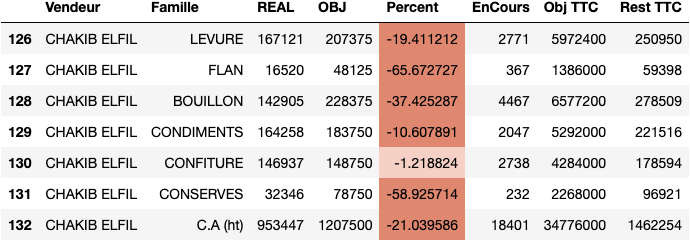
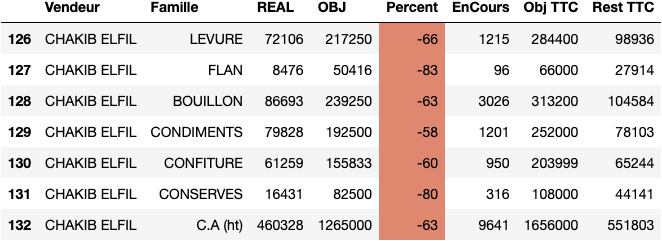
beta5

diff --git a/app.py b/app.py
@@ -5,6 +5,7 @@ import plotly.express as px
 from SheetFix import *
 from convert_df_image import *
 from vendeur_phones import *
+from operator import itemgetter
 
 
 st.set_page_config(page_title="Rapport FDV",
@@ -34,21 +35,43 @@ df = pd.read_excel(
     sheet_name=["AGADIR"],
 
 )
-
+som_check = True
+vmm_check = False
 df = df.get("AGADIR")
 list_vendeurs = []
+col1,col2=st.sidebar.columns(2)
+with col1:
+    som_vendeurs = st.checkbox("SOM Vendeurs", value=False)
+with col2:
+    vmm_vendeurs = st.checkbox("VMM Vendeurs", value=False)
+vmm_vendeurs_list=['K91 BAIZ MOHAMED','K81 AISSI SAMIR','035 AKANTOR REDOUAN','Y60 ATOUAOU AIMAD','F77 EL MEZRAOUI YOUSSEF','T45 FAICAL GOUIZID']    
+som_vendeurs_list=['K92 DARKAOUI MOHAMED','F78 GHOUSMI MOURAD','D86 ACHAOUI AZIZ','D45 OUARSSASSA YASSINE','Y59 EL GHANMI MOHAMED','T45 FAICAL GOUIZID']
 vendeurs = st.sidebar.multiselect(
     'Vendeurs', df["Vendeur"].unique(),
-    default="K92 DARKAOUI MOHAMED"
+    default=som_vendeurs_list if som_vendeurs else ( vmm_vendeurs_list if vmm_vendeurs else "K92 DARKAOUI MOHAMED")
 )
-famille = st.sidebar.multiselect(
-    "Famille:",
-    options=df["Famille"].unique(),
-    default=df["Famille"][6]
-)
+som_vmm=st.sidebar.selectbox("Choisir la famille",["SOM et VMM","SOM","VMM"])
 
-som_check = st.sidebar.checkbox("SOM", value=False)
-vmm_check = st.sidebar.checkbox("VMM", value=False)
+famille = "C.A (ht)"
+if som_vmm=="SOM":
+    famille = st.sidebar.multiselect(
+        "Famille:",
+        options=df["Famille"].unique(),
+        default=[df["Famille"][index] for index in [0, 1, 2, 6]]
+    )
+elif som_vmm=="VMM":
+    famille = st.sidebar.multiselect(
+        "Famille:",
+        options=df["Famille"].unique(),
+        default=df["Famille"][3:7]
+    )
+else :
+    famille = st.sidebar.multiselect(
+        "Famille:",
+        options=df["Famille"].unique(),
+        default=df["Famille"][0:7]
+    )    
+
 
 all_vendeur_option = st.sidebar.checkbox("All_Vendeur", value=False)
 df["Obj TTC"] = df.apply(lambda x: x["OBJ"] * 24*1.2/day_work, axis=1)
@@ -87,42 +110,12 @@ df = df.astype({
             "Percent": "int",
 
 })
-#df['Pourcent'] = df['Pourcent'].str.rstrip('%').astype('float') / 100.0
 
-# df=df.style.format({"Percent":"{:.0%}"})
-levure_ca = (
-    df_levure.groupby(by=["Famille"]).sum()[
-        ["REAL", "OBJ"]].sort_values(by="REAL")
-)
-flan_ca = (
-    df_flan.groupby(by=["Famille"]).sum()[
-        ["REAL", "OBJ"]].sort_values(by="REAL")
-)
-buillon_ca = (
-    df_bouillon.groupby(by=["Famille"]).sum()[
-        ["REAL", "OBJ"]].sort_values(by="REAL")
-)
-
-condiment_ca = (
-    df_condiment.groupby(by=["Famille"]).sum()[
-        ["REAL", "OBJ"]].sort_values(by="REAL")
-)
-confiture_ca = (
-    df_confiture.groupby(by=["Famille"]).sum()[
-        ["REAL", "OBJ"]].sort_values(by="REAL")
-)
-conserve_ca = (
-    df_conserve.groupby(by=["Famille"]).sum()[
-        ["REAL", "OBJ"]].sort_values(by="REAL")
-)
-
+st.dataframe(df)
 vendeur_ca = (
     df.groupby(by=["Vendeur"]).sum()[["REAL", "OBJ"]].sort_values(by="REAL")
 )
-
-
-st.dataframe(df)
-fig_produit_sales = px.bar(
+ca_vendeur = px.bar(
     vendeur_ca,
     x="REAL",
     y=vendeur_ca.index,
@@ -130,56 +123,95 @@ fig_produit_sales = px.bar(
     title=f'{famille[0]}',
     color_discrete_sequence=["#0083B8"] * len(vendeur_ca),
     template="plotly_white",
-    color='REAL'
+    color='REAL',
+    height=300,
+    width=500
+    
 
 )
 # circle=px.pie(df,names=list_vendeurs,values="REAL")
+
 ca_by_vendeur = px.bar(vendeur_ca, y=vendeurs, x=[
-    "REAL", "OBJ"], title="CA", barmode='group')
+    "REAL", "OBJ"], title="CA", barmode='group',height=300,
+    width=500)
 
+try:
+    col1,col2=st.columns(2)
+    with col1:
+        st.plotly_chart(ca_vendeur)
+    with col2:
+        
+        st.plotly_chart(ca_by_vendeur)
+    
 
-if som_check:
-    ca_by_levure = px.bar(levure_ca, y=vendeurs, x=[
-        "REAL", "OBJ"], title="LEVURE", barmode='group', width=400, height=250)
-    ca_by_flan = px.bar(flan_ca, y=vendeurs, x=[
-                        "REAL", "OBJ"], title="FLAN", barmode='group', width=400, height=250)
-    ca_by_buillon = px.bar(df_bouillon, y=vendeurs, x=[
-                           "REAL", "OBJ"], title="BUILLON", barmode='group', width=400, height=250)
-ca_by_condiment = px.bar(condiment_ca, y=vendeurs, x=[
-                         "REAL", "OBJ"], title="CONDIMENT", barmode='group', width=400, height=250)
-
-
-ca_by_confiture = px.bar(confiture_ca, y=vendeurs, x=[
-                         "REAL", "OBJ"], title="CONFITURE", barmode='group', width=400, height=250)
-ca_by_conserve = px.bar(conserve_ca, y=vendeurs, x=[
-                        "REAL", "OBJ"], title="CONSERVE", barmode='group', width=400, height=250)
-
-
-st.plotly_chart(fig_produit_sales)
+except Exception as e :
+    print("an error " +e)
 # st.plotly_chart(circle)
 df = df.style.applymap(lambda x: "background-color: #ed8269" if x < -10 else ("background-color: #FDCDC3" if x <
-
                        0 else ("background-color: white" if x == 0 else "background-color: #A1EB0E")), subset=["Percent"])
-if som_check:
-    col1, col2, col3 = st.columns(3)
-    with col1:
-        st.plotly_chart(ca_by_levure)
-    with col2:
-        st.plotly_chart(ca_by_flan)
-    with col3:
-        st.plotly_chart(ca_by_buillon)
-if vmm_check:
-    col1, col2, col3 = st.columns(3)
 
-    with col1:
-        st.plotly_chart(ca_by_condiment)
-    with col2:
-        st.plotly_chart(ca_by_confiture)
-    with col3:
-        st.plotly_chart(ca_by_conserve)
+ca_by_vendeur = px.bar(vendeur_ca, y=vendeurs, x=[
+    "REAL", "OBJ"], title="CA", barmode='group')
+try:
 
+    if som_vmm=="SOM" or som_vmm=="SOM et VMM":
+        col1, col2, col3 = st.columns(3)
+        with col1:
+            levure_ca = (
+    df_levure.groupby(by=["Famille"]).sum()[
+        ["REAL", "OBJ"]].sort_values(by="REAL")
+)
+            ca_by_levure = px.bar(levure_ca, y=vendeurs, x=[
+                "REAL", "OBJ"], title="LEVURE", barmode='group', width=400, height=250)
+            st.plotly_chart(ca_by_levure)
+        with col2:
+            flan_ca = (
+    df_flan.groupby(by=["Famille"]).sum()[
+        ["REAL", "OBJ"]].sort_values(by="REAL")
+)
+            ca_by_flan = px.bar(flan_ca, y=vendeurs, x=[
+                "REAL", "OBJ"], title="FLAN", barmode='group', width=400, height=250)
+            st.plotly_chart(ca_by_flan)
+        with col3:
+            buillon_ca = (
+    df_bouillon.groupby(by=["Famille"]).sum()[
+        ["REAL", "OBJ"]].sort_values(by="REAL")
+)
+            ca_by_buillon = px.bar(df_bouillon, y=vendeurs, x=[
+                "REAL", "OBJ"], title="BUILLON", barmode='group', width=400, height=250)
+            st.plotly_chart(ca_by_buillon)
+    if som_vmm=="VMM" or som_vmm=="SOM et VMM":
+        col1, col2, col3 = st.columns(3)
+
+        with col1:
+            condiment_ca = (
+    df_condiment.groupby(by=["Famille"]).sum()[
+        ["REAL", "OBJ"]].sort_values(by="REAL")
+)
+            ca_by_condiment = px.bar(condiment_ca, y=vendeurs, x=[
+                "REAL", "OBJ"], title="CONDIMENT", barmode='group', width=400, height=250)
+            st.plotly_chart(ca_by_condiment)
+        with col2:
+            confiture_ca = (
+    df_confiture.groupby(by=["Famille"]).sum()[
+        ["REAL", "OBJ"]].sort_values(by="REAL")
+)
+            ca_by_confiture = px.bar(confiture_ca, y=vendeurs, x=[
+                "REAL", "OBJ"], title="CONFITURE", barmode='group', width=400, height=250)
+            st.plotly_chart(ca_by_confiture)
+        with col3:
+            conserve_ca = (
+    df_conserve.groupby(by=["Famille"]).sum()[
+        ["REAL", "OBJ"]].sort_values(by="REAL")
+)
+            ca_by_conserve = px.bar(conserve_ca, y=vendeurs, x=[
+                "REAL", "OBJ"], title="CONSERVE", barmode='group', width=400, height=250)
+            st.plotly_chart(ca_by_conserve)
+except Exception as e:
+    print("an error " + e )
 
 # whatsapp_data=whatsapp_data.data
+
 
 def send_image():
     for vendeur in vendeurs:
@@ -193,12 +225,14 @@ def send_image():
             "EnCours": "int",
             "Obj TTC": "int",
             "Rest TTC": "int",
+            "Percent": "int",
 
 
         })
-
+            
         nv_df = nv_df.style.applymap(lambda x: "background-color: #ed8269" if x < -10 else ("background-color: #FDCDC3" if x <
                                      0 else ("background-color: white" if x == 0 else "background-color: #A1EB0E")), subset=["Percent"])
+        
 
         send_image = SendImageToFDV(nv_df, vendeur)
         send_image.send_df_image()
